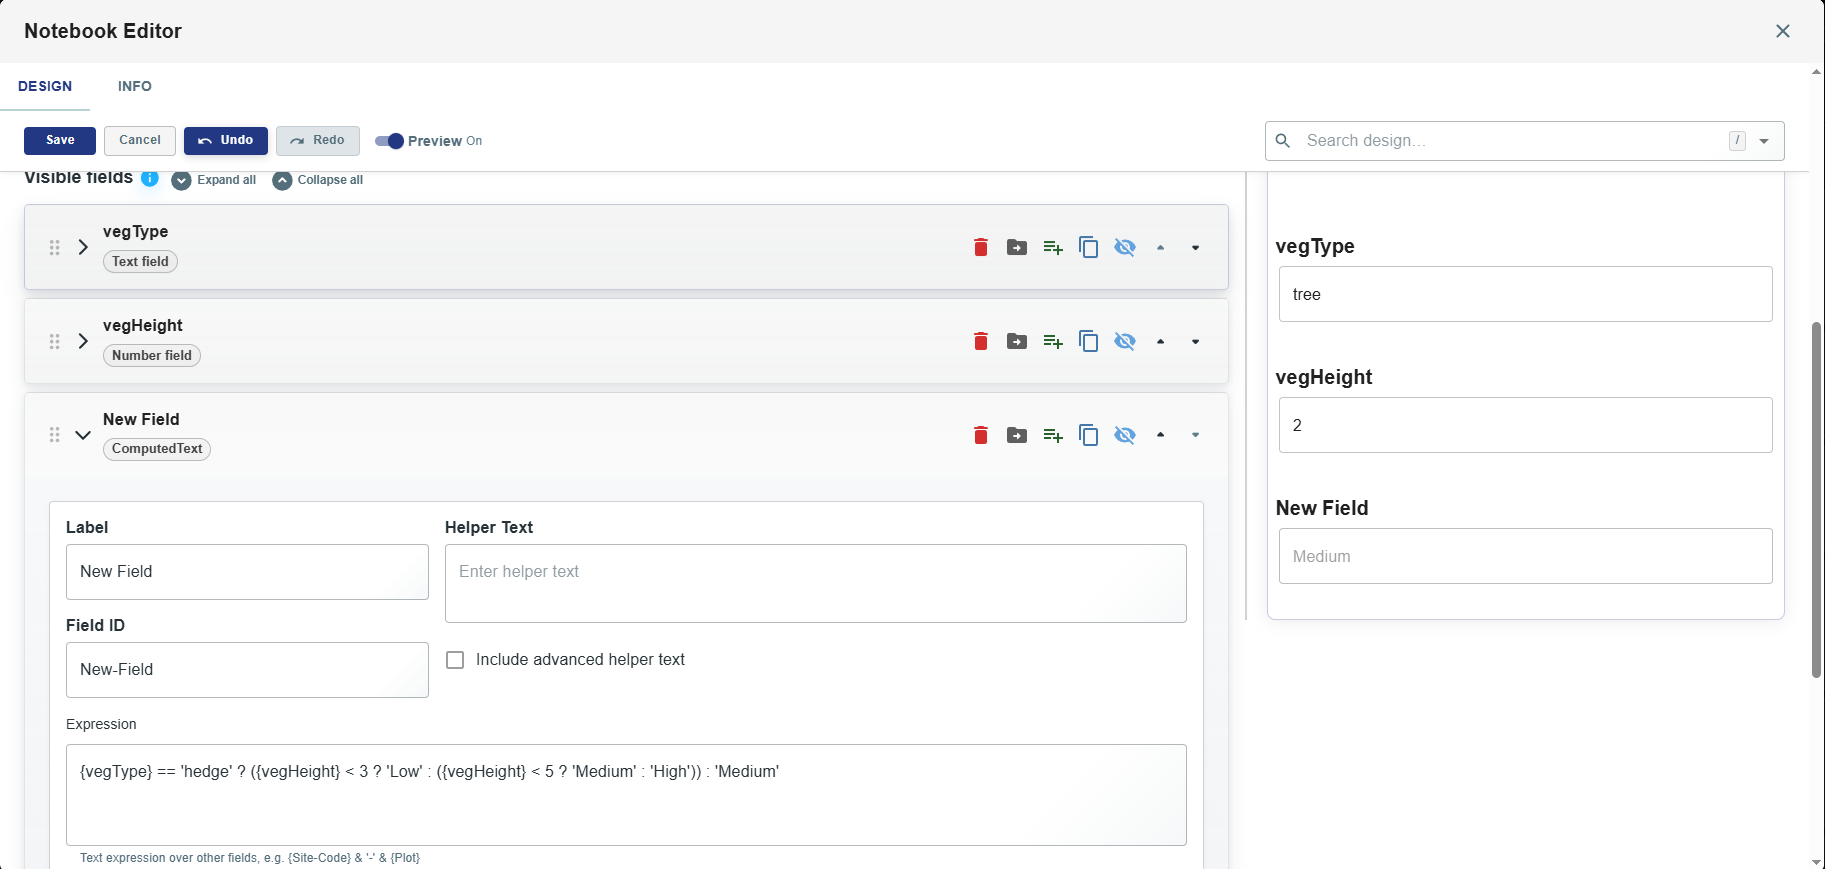
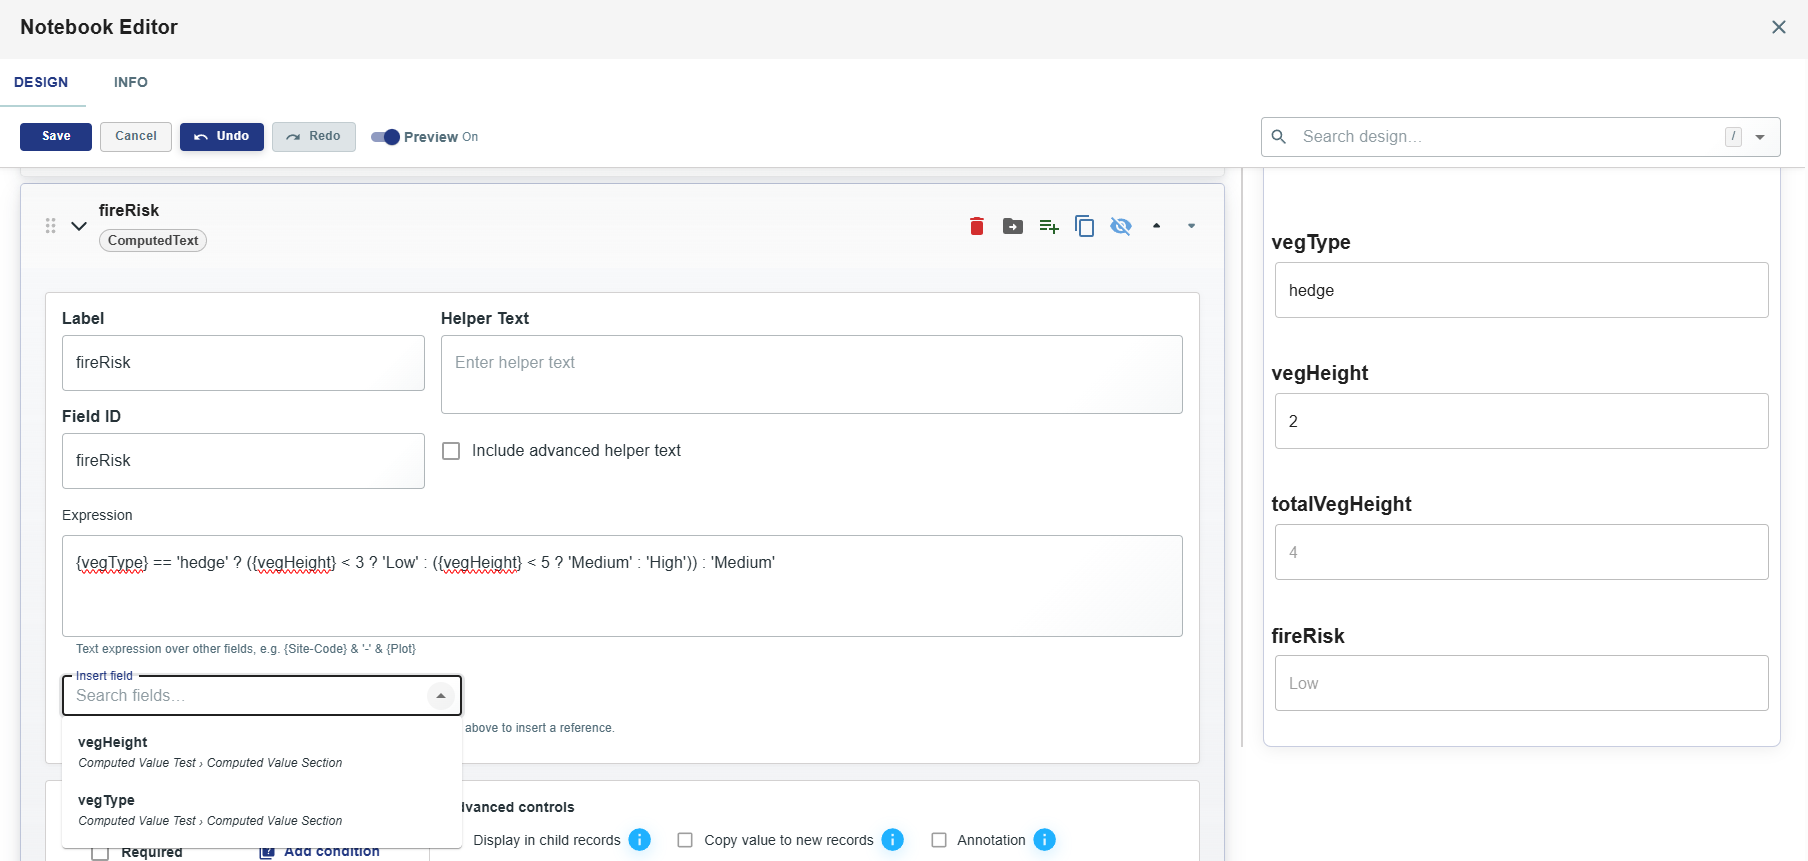
fix: use integrated field search and inline expression errors in computed field editor

diff --git a/web/src/designer/components/Fields/ComputedFieldEditor.tsx b/web/src/designer/components/Fields/ComputedFieldEditor.tsx
@@ -1,9 +1,24 @@
-import {Box, Chip, FormHelperText, Typography} from '@mui/material';
+import {Alert, Box, FormHelperText, Typography} from '@mui/material';
 import {useMemo} from 'react';
-import {FAIMS_TYPE_TO_EXPR_TYPE} from '@faims3/data-model';
+import {
+  compileComputedExpression,
+  ExpressionError,
+  ExprType,
+  FAIMS_TYPE_TO_EXPR_TYPE,
+} from '@faims3/data-model';
 import {useAppDispatch, useAppSelector} from '../../state/hooks';
 import {withUpdatedField} from '../../features/fields/shared/updateField';
 import {fieldUpdated} from '../../store/slices/uiSpec';
+import {FieldSearchAutocomplete} from '../field-selector';
+import {
+  applyFieldFilters,
+  getViewsetFieldIds,
+} from '../../features/field-search';
+import {
+  selectUiFields,
+  selectUiViews,
+  selectUiViewSets,
+} from '../../store/selectors';
 import DebouncedTextField from '../debounced-text-field';
 import {BaseFieldEditor} from './BaseFieldEditor';
 
@@ -33,41 +48,59 @@ const isReferenceableField = (field: {
  * Property editor shared by ComputedNumber and ComputedText. Uses
  * BaseFieldEditor for the standard field settings and adds the typed
  * expression below. Field references are wrapped in braces, e.g.
- * {Width} * {Height}; the chips insert a reference for each referenceable
- * field in the form.
+ * {Width} * {Height}; the field picker inserts a reference. The expression is
+ * compiled as it changes and compile errors are shown inline.
  */
 export const ComputedFieldEditor = ({fieldName, viewsetId}: PropType) => {
   const field = useAppSelector(
     state => state.notebook.uiSpec.present.fields[fieldName]
   );
-  const allFields = useAppSelector(
-    state => state.notebook.uiSpec.present.fields
-  );
-  const viewSet = useAppSelector(
-    state => state.notebook.uiSpec.present.viewsets[viewsetId]
-  );
-  const views = useAppSelector(state => state.notebook.uiSpec.present.views);
+  const allFields = useAppSelector(selectUiFields);
+  const views = useAppSelector(selectUiViews);
+  const viewsets = useAppSelector(selectUiViewSets);
   const dispatch = useAppDispatch();
 
   const expression =
     (field['component-parameters'].expression as string | undefined) || '';
   const isText = field['component-name'] === 'ComputedText';
+  const requiredType: ExprType = isText ? 'string' : 'number';
 
-  // Referenceable field ids in this form, excluding this field itself.
-  const referenceableFieldIds = useMemo(() => {
-    const ids: string[] = [];
-    const seen = new Set<string>();
-    viewSet?.views.forEach(viewId => {
-      views[viewId]?.fields.forEach(id => {
-        if (id === fieldName || seen.has(id)) return;
-        seen.add(id);
-        if (isReferenceableField(allFields[id] ?? {})) {
-          ids.push(id);
-        }
-      });
-    });
-    return ids;
-  }, [viewSet?.views, views, allFields, fieldName]);
+  const referenceableFieldFilters = useMemo(
+    () => ({
+      excludeFieldIds: [fieldName],
+      predicate: (_id: string, f: (typeof allFields)[string]) =>
+        isReferenceableField(f),
+    }),
+    [fieldName]
+  );
+
+  const referenceableFieldCount = useMemo(
+    () =>
+      applyFieldFilters(
+        getViewsetFieldIds(viewsetId, views, viewsets),
+        allFields,
+        referenceableFieldFilters
+      ).length,
+    [viewsetId, views, viewsets, allFields, referenceableFieldFilters]
+  );
+
+  // Compile the expression against the current field types, mirroring the
+  // notebook-load compile. Runs when the (debounced) expression or the spec
+  // changes; returns the compile error message, or null when valid/empty.
+  const validationError = useMemo(() => {
+    if (expression.trim() === '') return null;
+    const fieldTypes = new Map<string, ExprType>();
+    for (const [id, f] of Object.entries(allFields)) {
+      const t = FAIMS_TYPE_TO_EXPR_TYPE[f['type-returned'] ?? ''];
+      if (t) fieldTypes.set(id, t);
+    }
+    try {
+      compileComputedExpression(expression, fieldTypes, requiredType);
+      return null;
+    } catch (e) {
+      return e instanceof ExpressionError ? e.message : 'Invalid expression';
+    }
+  }, [expression, allFields, requiredType]);
 
   const updateExpression = (value: string) => {
     const newField = withUpdatedField(field, nextField => {
@@ -96,45 +129,45 @@ export const ComputedFieldEditor = ({fieldName, viewsetId}: PropType) => {
           rows={3}
           value={expression}
           onChange={e => updateExpression(e.target.value)}
+          error={validationError !== null}
           helperText={
             isText
               ? "Text expression over other fields, e.g. {Site-Code} & '-' & {Plot}"
               : 'Numeric expression over other fields, e.g. {Width} * {Height}'
           }
         />
-        {referenceableFieldIds.length > 0 && (
-          <Box sx={{mt: 2}}>
-            <Typography
-              variant="caption"
-              color="text.secondary"
-              sx={{display: 'block', mb: 1}}
-            >
-              Insert a field:
-            </Typography>
-            <Box sx={{display: 'flex', flexWrap: 'wrap', gap: 1}}>
-              {referenceableFieldIds.map(id => {
-                const label =
-                  (
-                    allFields[id]?.['component-parameters'] as
-                      | {label?: string}
-                      | undefined
-                  )?.label || id;
-                return (
-                  <Chip
-                    key={id}
-                    label={label === id ? id : `${label} (${id})`}
-                    size="small"
-                    variant="outlined"
-                    onClick={() => insertFieldRef(id)}
-                  />
-                );
-              })}
-            </Box>
+        {validationError && (
+          <Alert severity="error" sx={{mt: 1}} data-testid="expression-error">
+            {validationError}
+          </Alert>
+        )}
+        {referenceableFieldCount > 0 ? (
+          <Box sx={{mt: 2, maxWidth: 400}}>
+            <FieldSearchAutocomplete
+              value={null}
+              onChange={fieldId => {
+                if (fieldId) insertFieldRef(fieldId);
+              }}
+              scope={{kind: 'viewset', viewsetId}}
+              filters={referenceableFieldFilters}
+              label="Insert field"
+              placeholder="Search fields…"
+              size="small"
+              clearOnSelect
+              noOptionsText="No field search results"
+              data-testid="computed-field-insert"
+            />
           </Box>
+        ) : (
+          <Alert severity="info" sx={{mt: 2}}>
+            No referenceable fields in this form. Add number, text, or checkbox
+            fields to reference them in the expression.
+          </Alert>
         )}
         <FormHelperText>
-          Reference other fields by wrapping their ID in braces. Click a field
-          above to insert it.
+          Reference other fields by wrapping their ID in braces.
+          {referenceableFieldCount > 0 &&
+            ' Use the field picker above to insert a reference.'}
         </FormHelperText>
       </Box>
     </BaseFieldEditor>

diff --git a/docs/user/field-types/text-fields/computed-text-field.md b/docs/user/field-types/text-fields/computed-text-field.md
@@ -60,7 +60,7 @@ field's reference.
 | Setting          | What It Does                                                                                                                                                 |
 | ---------------- | ------------------------------------------------------------------------------------------------------------------------------------------------------------ |
 | **Expression**   | A text area where you define the generated text using literals, operators, and field references in single-brace syntax (e.g., `{Site-Code} & '-' & {Plot}`). |
-| **Insert chips** | A chip for each referenceable field in the form. Clicking one inserts its braced reference into the expression at the end.                                   |
+| **Insert field** | A searchable picker of the referenceable fields in the form. Selecting one inserts its braced reference into the expression.                                 |
 
 The expression is typed and checked when the {{notebook}} is designed —
 mixing types is an error rather than a silent wrong answer. The overall
@@ -96,8 +96,8 @@ records — see
 
 ## Tips
 
-- **Use the field chips to build expressions** rather than typing Field
-  IDs by hand. Clicking a chip inserts the exact braced reference, so you
+- **Use the field picker to build expressions** rather than typing Field
+  IDs by hand. Clicking a field inserts the exact braced reference, so you
   avoid typos and do not need to remember a field's ID.
 - **Nest ternaries for classifications** — thresholds like
   Low/Medium/High are a natural fit, as in the example above.
@@ -107,3 +107,7 @@ records — see
 - **Computed Texts are read-only for data collectors.** They see the
   generated text but cannot edit it, keeping the value consistent with
   its inputs.
+- **String comparisons are exact, including case.** `{vegType} == 'hedge'`
+  will not match a value of `Hedge` — the expression takes the other branch
+  with no error. When comparing against fixed values, prefer a Choice field
+  for the input so the values are exact by construction.

diff --git a/docs/user/field-types/number-fields/computed-number-field.md b/docs/user/field-types/number-fields/computed-number-field.md
@@ -60,7 +60,7 @@ hand.
 | Setting          | What It Does                                                                                                                                      |
 | ---------------- | ------------------------------------------------------------------------------------------------------------------------------------------------- |
 | **Expression**   | A text area where you define the calculation using literals, operators, and field references in single-brace syntax (e.g., `{Width} * {Height}`). |
-| **Insert chips** | A chip for each referenceable field in the form. Clicking one inserts its braced reference into the expression at the end.                        |
+| **Insert field** | A searchable picker of the referenceable fields in the form. Selecting one inserts its braced reference into the expression.                      |
 
 The expression is typed and checked when the {{notebook}} is designed —
 mixing types is an error rather than a silent wrong answer. The overall
@@ -95,8 +95,8 @@ records — see
 
 ## Tips
 
-- **Use the field chips to build expressions** rather than typing Field
-  IDs by hand. Clicking a chip inserts the exact braced reference, so you
+- **Use the field picker to build expressions** rather than typing Field
+  IDs by hand. Clicking a field inserts the exact braced reference, so you
   avoid typos and do not need to remember a field's ID.
 - **The result stays blank until all referenced fields have values.**
   This is intentional — a partially complete record shows no value rather